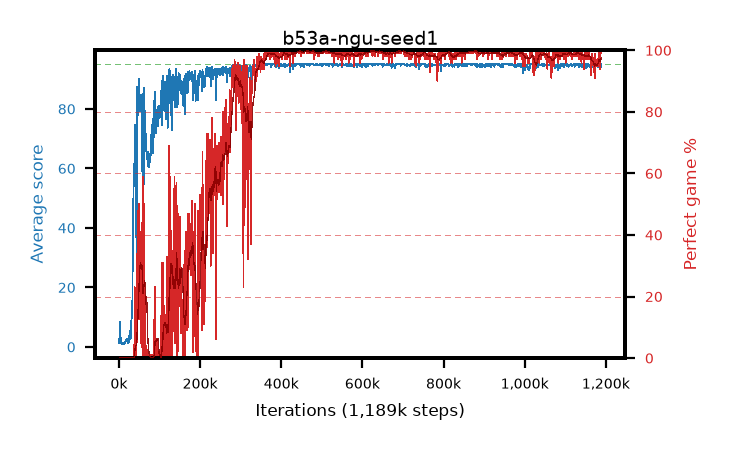
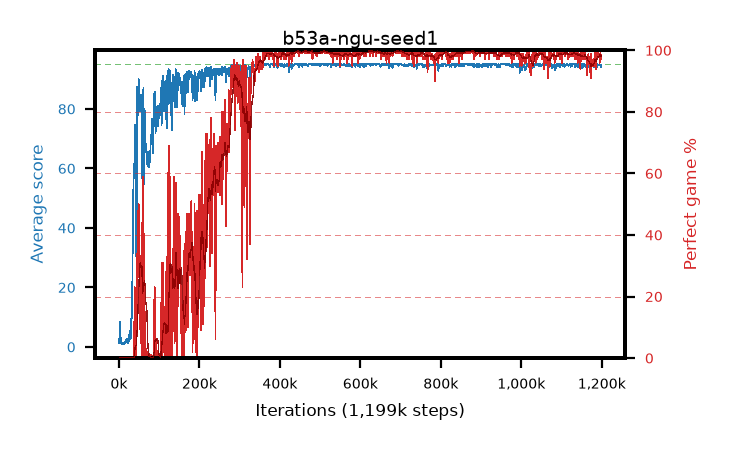
live pictures of 4 arm(s)

diff --git a/results/b53d-ngu-seed4/b53d-ngu-seed4.md b/results/b53d-ngu-seed4/b53d-ngu-seed4.md
@@ -1,6 +1,6 @@
 # b53d-ngu-seed4
 
-step **1,189,000** · 1189 evals · trailing **94.56** · peak **94.94** @1,040,000 · sef **74.6** · best30 **99.7** @1,024,000
+step **1,199,000** · 1199 evals · trailing **94.55** · peak **94.94** @1,040,000 · sef **74.8** · best30 **99.7** @1,024,000
 
 ## Config
 
@@ -80,15 +80,15 @@ step **1,189,000** · 1189 evals · trailing **94.56** · peak **94.94** @1,040,
 | 2000 | 2.39 | 1.47 | 0.0 | 8.0 | 1.286 | 0.0 | 0.4 |
 | 3000 | 6.99 | 3.31 | 0.0 | 25.0 | 5.34 | 0.0 | 0.4 |
 | ... | ... | ... | ... | ... | ... | ... | ... |
-| 1178000 | 94.97 | 94.66 | 92.0 | 95.0 | 192.674 | 99.0 | 0.4 |
-| 1179000 | 92.74 | 94.59 | 16.0 | 95.0 | 187.326 | 96.0 | 0.4 |
-| 1180000 | 94.48 | 94.59 | 51.0 | 95.0 | 191.098 | 98.0 | 0.4 |
-| 1181000 | 93.69 | 94.54 | 26.0 | 95.0 | 189.317 | 97.0 | 0.4 |
-| 1182000 | 94.4 | 94.54 | 76.0 | 95.0 | 187.042 | 94.0 | 0.4 |
-| 1183000 | 94.56 | 94.53 | 70.0 | 95.0 | 189.208 | 96.0 | 0.4 |
-| 1184000 | 94.71 | 94.56 | 66.0 | 95.0 | 192.422 | 99.0 | 0.4 |
-| 1185000 | 95.0 | 94.56 | 95.0 | 95.0 | 193.719 | 100.0 | 0.4 |
-| 1186000 | 94.12 | 94.55 | 16.0 | 95.0 | 190.753 | 98.0 | 0.4 |
-| 1187000 | 94.17 | 94.55 | 22.0 | 95.0 | 189.834 | 97.0 | 0.4 |
 | 1188000 | 94.45 | 94.54 | 40.0 | 95.0 | 192.115 | 99.0 | 0.4 |
 | 1189000 | 95.0 | 94.56 | 95.0 | 95.0 | 193.72 | 100.0 | 0.4 |
+| 1190000 | 94.49 | 94.54 | 44.0 | 95.0 | 192.139 | 99.0 | 0.4 |
+| 1191000 | 94.75 | 94.54 | 83.0 | 95.0 | 189.392 | 96.0 | 0.4 |
+| 1192000 | 94.21 | 94.52 | 16.0 | 95.0 | 191.887 | 99.0 | 0.4 |
+| 1193000 | 95.0 | 94.53 | 95.0 | 95.0 | 193.701 | 100.0 | 0.4 |
+| 1194000 | 95.0 | 94.54 | 95.0 | 95.0 | 193.717 | 100.0 | 0.4 |
+| 1195000 | 95.0 | 94.54 | 95.0 | 95.0 | 193.72 | 100.0 | 0.4 |
+| 1196000 | 93.96 | 94.55 | 42.0 | 95.0 | 189.551 | 97.0 | 0.4 |
+| 1197000 | 94.31 | 94.56 | 26.0 | 95.0 | 191.983 | 99.0 | 0.4 |
+| 1198000 | 95.0 | 94.57 | 95.0 | 95.0 | 193.711 | 100.0 | 0.4 |
+| 1199000 | 94.31 | 94.55 | 29.0 | 95.0 | 190.94 | 98.0 | 0.4 |

diff --git a/results/b53c-ngu-seed3/b53c-ngu-seed3.md b/results/b53c-ngu-seed3/b53c-ngu-seed3.md
@@ -1,6 +1,6 @@
 # b53c-ngu-seed3
 
-step **1,179,000** · 1179 evals · trailing **94.68** · peak **94.93** @574,000 · sef **80.6** · best30 **99.6** @585,000
+step **1,189,000** · 1189 evals · trailing **94.77** · peak **94.93** @574,000 · sef **80.7** · best30 **99.6** @585,000
 
 ## Config
 
@@ -80,15 +80,15 @@ step **1,179,000** · 1179 evals · trailing **94.68** · peak **94.93** @574,00
 | 2000 | 6.19 | 3.38 | 0.0 | 14.0 | 2.147 | 0.0 | 0.4 |
 | 3000 | 12.02 | 6.26 | 1.0 | 18.0 | 7.496 | 0.0 | 0.4 |
 | ... | ... | ... | ... | ... | ... | ... | ... |
-| 1168000 | 94.85 | 94.66 | 80.0 | 95.0 | 192.514 | 99.0 | 0.4 |
-| 1169000 | 94.33 | 94.66 | 28.0 | 95.0 | 192.005 | 99.0 | 0.4 |
-| 1170000 | 94.95 | 94.7 | 90.0 | 95.0 | 192.623 | 99.0 | 0.4 |
-| 1171000 | 94.64 | 94.69 | 79.0 | 95.0 | 188.214 | 95.0 | 0.4 |
-| 1172000 | 94.36 | 94.67 | 44.0 | 95.0 | 190.999 | 98.0 | 0.4 |
-| 1173000 | 93.66 | 94.67 | 40.0 | 95.0 | 187.17 | 95.0 | 0.4 |
-| 1174000 | 95.0 | 94.68 | 95.0 | 95.0 | 193.716 | 100.0 | 0.4 |
-| 1175000 | 94.85 | 94.69 | 86.0 | 95.0 | 190.438 | 97.0 | 0.4 |
-| 1176000 | 94.9 | 94.7 | 89.0 | 95.0 | 191.53 | 98.0 | 0.4 |
-| 1177000 | 94.84 | 94.69 | 85.0 | 95.0 | 190.422 | 97.0 | 0.4 |
 | 1178000 | 94.64 | 94.68 | 59.0 | 95.0 | 192.301 | 99.0 | 0.4 |
 | 1179000 | 94.91 | 94.68 | 86.0 | 95.0 | 192.578 | 99.0 | 0.4 |
+| 1180000 | 94.97 | 94.68 | 92.0 | 95.0 | 192.627 | 99.0 | 0.4 |
+| 1181000 | 95.0 | 94.73 | 95.0 | 95.0 | 193.717 | 100.0 | 0.4 |
+| 1182000 | 95.0 | 94.77 | 95.0 | 95.0 | 193.705 | 100.0 | 0.4 |
+| 1183000 | 95.0 | 94.77 | 95.0 | 95.0 | 193.715 | 100.0 | 0.4 |
+| 1184000 | 95.0 | 94.77 | 95.0 | 95.0 | 193.711 | 100.0 | 0.4 |
+| 1185000 | 95.0 | 94.77 | 95.0 | 95.0 | 193.704 | 100.0 | 0.4 |
+| 1186000 | 94.91 | 94.77 | 86.0 | 95.0 | 192.581 | 99.0 | 0.4 |
+| 1187000 | 95.0 | 94.79 | 95.0 | 95.0 | 193.692 | 100.0 | 0.4 |
+| 1188000 | 95.0 | 94.79 | 95.0 | 95.0 | 193.71 | 100.0 | 0.4 |
+| 1189000 | 94.55 | 94.77 | 50.0 | 95.0 | 192.228 | 99.0 | 0.4 |

diff --git a/results/b53a-ngu-seed1/b53a-ngu-seed1.md b/results/b53a-ngu-seed1/b53a-ngu-seed1.md
@@ -1,6 +1,6 @@
 # b53a-ngu-seed1
 
-step **1,189,000** · 1189 evals · trailing **94.55** · peak **94.96** @643,000 · sef **76.4** · best30 **99.7** @643,000
+step **1,199,000** · 1199 evals · trailing **94.63** · peak **94.96** @643,000 · sef **76.6** · best30 **99.7** @643,000
 
 ## Config
 
@@ -80,15 +80,15 @@ step **1,189,000** · 1189 evals · trailing **94.55** · peak **94.96** @643,00
 | 2000 | 8.43 | 4.84 | 0.0 | 21.0 | 7.201 | 0.0 | 0.4 |
 | 3000 | 8.52 | 6.07 | 0.0 | 26.0 | 5.525 | 0.0 | 0.4 |
 | ... | ... | ... | ... | ... | ... | ... | ... |
-| 1178000 | 94.83 | 94.57 | 87.0 | 95.0 | 190.428 | 97.0 | 0.4 |
-| 1179000 | 94.78 | 94.57 | 82.0 | 95.0 | 189.366 | 96.0 | 0.4 |
-| 1180000 | 94.74 | 94.56 | 75.0 | 95.0 | 190.379 | 97.0 | 0.4 |
-| 1181000 | 93.92 | 94.57 | 12.0 | 95.0 | 187.478 | 95.0 | 0.4 |
-| 1182000 | 94.89 | 94.59 | 87.0 | 95.0 | 191.532 | 98.0 | 0.4 |
-| 1183000 | 95.0 | 94.59 | 95.0 | 95.0 | 193.685 | 100.0 | 0.4 |
-| 1184000 | 94.58 | 94.58 | 62.0 | 95.0 | 189.225 | 96.0 | 0.4 |
-| 1185000 | 94.9 | 94.6 | 89.0 | 95.0 | 190.517 | 97.0 | 0.4 |
-| 1186000 | 94.14 | 94.59 | 28.0 | 95.0 | 186.777 | 94.0 | 0.4 |
-| 1187000 | 94.21 | 94.56 | 16.0 | 95.0 | 191.849 | 99.0 | 0.4 |
 | 1188000 | 95.0 | 94.57 | 95.0 | 95.0 | 193.657 | 100.0 | 0.4 |
 | 1189000 | 94.1 | 94.55 | 5.0 | 95.0 | 191.773 | 99.0 | 0.4 |
+| 1190000 | 94.96 | 94.57 | 93.0 | 95.0 | 191.659 | 98.0 | 0.4 |
+| 1191000 | 94.93 | 94.57 | 89.0 | 95.0 | 191.567 | 98.0 | 0.4 |
+| 1192000 | 94.94 | 94.58 | 89.0 | 95.0 | 192.604 | 99.0 | 0.4 |
+| 1193000 | 94.96 | 94.59 | 91.0 | 95.0 | 192.625 | 99.0 | 0.4 |
+| 1194000 | 94.94 | 94.61 | 92.0 | 95.0 | 191.592 | 98.0 | 0.4 |
+| 1195000 | 94.64 | 94.61 | 78.0 | 95.0 | 189.261 | 96.0 | 0.4 |
+| 1196000 | 94.96 | 94.62 | 91.0 | 95.0 | 192.613 | 99.0 | 0.4 |
+| 1197000 | 94.78 | 94.63 | 73.0 | 95.0 | 192.439 | 99.0 | 0.4 |
+| 1198000 | 94.12 | 94.6 | 13.0 | 95.0 | 189.75 | 97.0 | 0.4 |
+| 1199000 | 94.81 | 94.63 | 85.0 | 95.0 | 190.441 | 97.0 | 0.4 |
